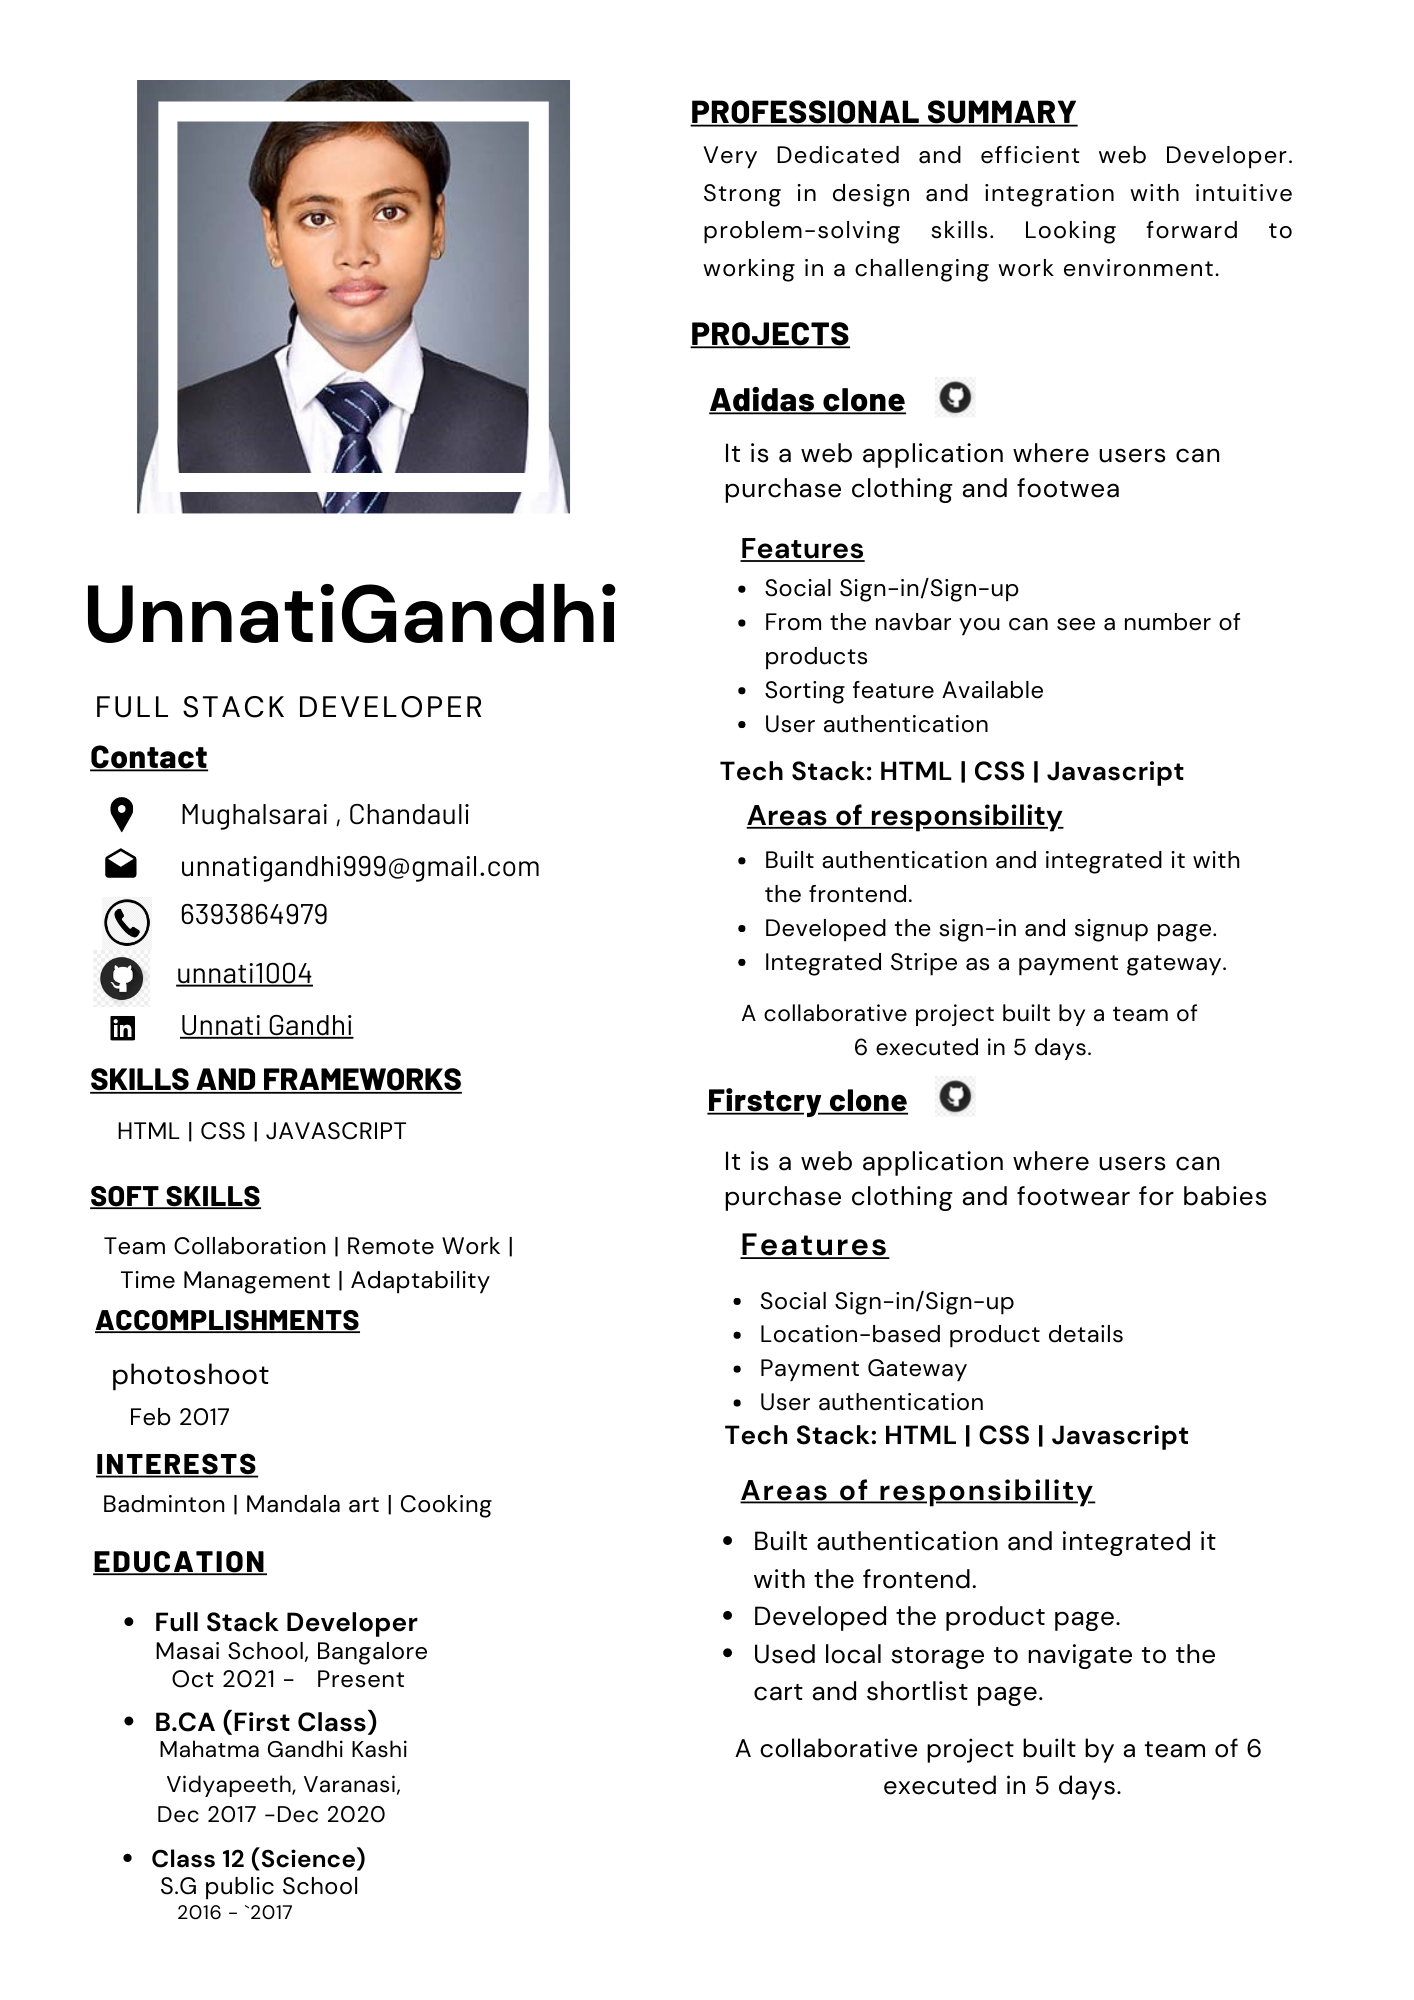
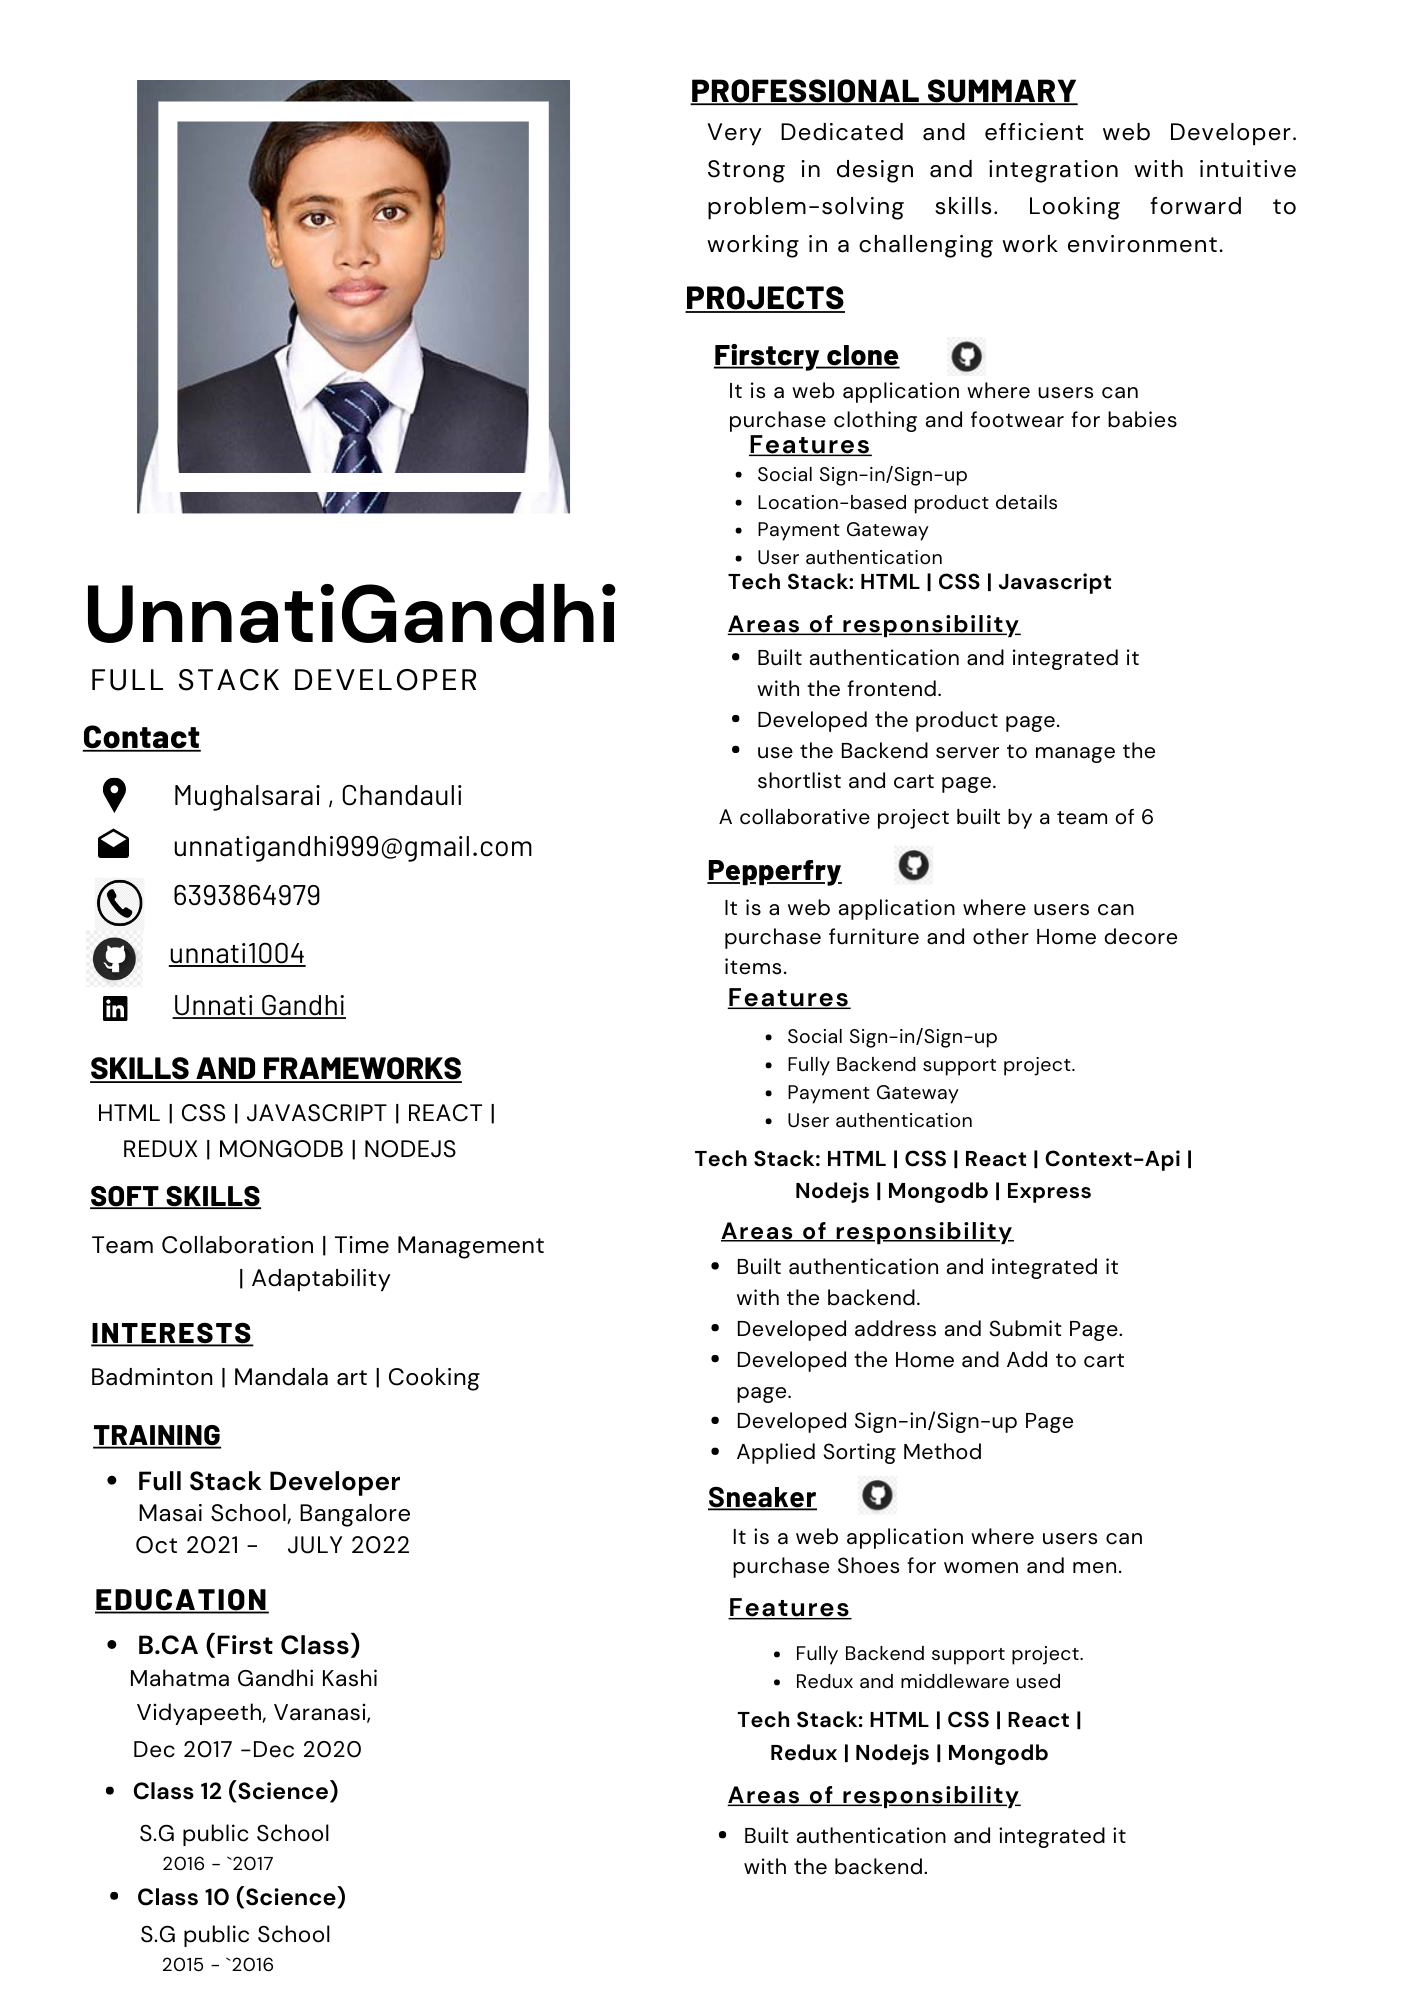
update

diff --git a/src/Components/Slide/Projects/Projects.jsx b/src/Components/Slide/Projects/Projects.jsx
@@ -101,6 +101,40 @@ let projectArray = [
       "Contributed greatly towards the development of the cart page",
       "Collaboratively built the product page",
     ],
+  },
+  {
+    img: "https://user-images.githubusercontent.com/95961486/180657583-37a61718-a2f5-4be8-8671-9418249b80bd.png",
+    title: "Sneaker",
+    description: "A website to purchase all Shoes related products.",
+    techStack: [
+      "HTML",
+      "CSS",
+      "Reactjs",
+      // "NextJs",
+      "Redux",
+      "Redux-thunk",
+      "Node",
+      "Firebase",
+      "Express",
+      "MongoDB",
+    ],
+    repoLink: "https://github.com/unnati1004/Sneaker",
+    demoLink: "https://snekerhead-unnati1004.vercel.app",
+    type: "A collaborative project built by a team of 6 members under 6 days.",
+    features: [
+      "Carousel in landing page",
+      "User can switch between prices in the product page from high to low and low to high",
+      "User can add the product in the shortlist page & also in cart ",
+      "Payment Gateway",
+    ],
+    responsibilities: [
+      "Developed the Whole Project by own",
+      "Developed backend server with products data",
+      "Created an API to fetch the products from backend server",
+      "Sorting Filter Everything Fully backend supported page",
+      "Collaboratively built the product page",
+      "Develop Authentication from Firebase"
+    ],
   }
 ];
 
